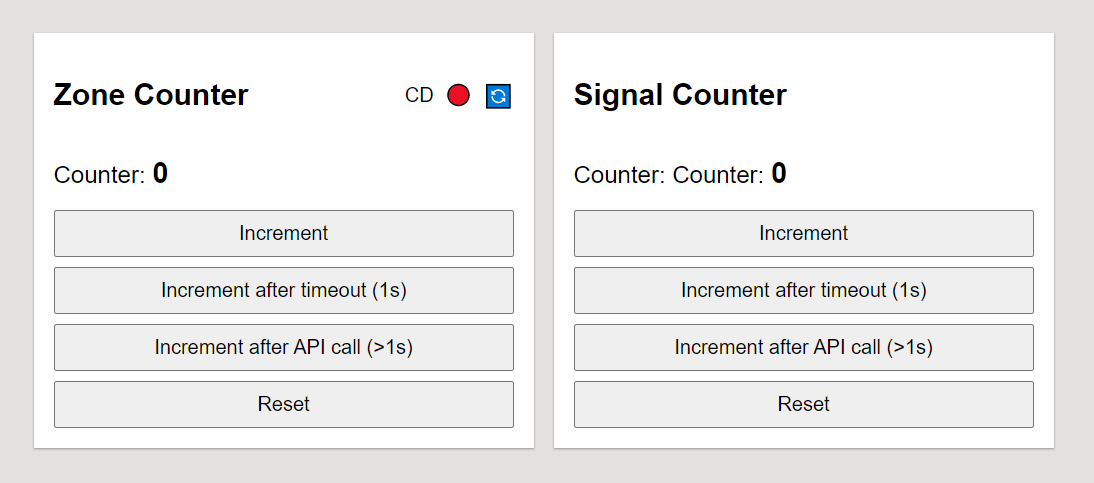
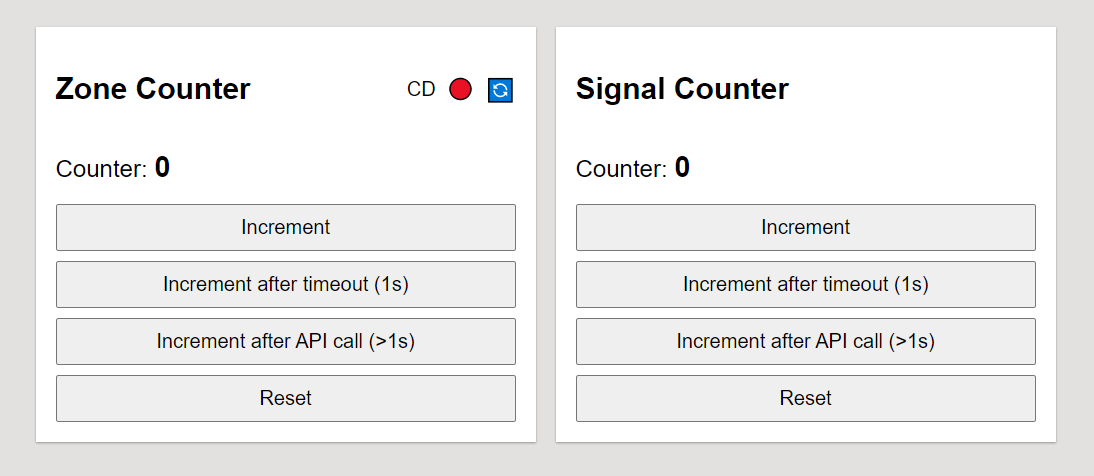
fix ui

diff --git a/src/app/signal-counter/signal-counter.component.html b/src/app/signal-counter/signal-counter.component.html
@@ -1,7 +1,7 @@
 <h2>Signal Counter</h2>
 
 <div class="info">
-  Counter: Counter: <strong>{{ counter() }}</strong>
+  Counter: <strong>{{ counter() }}</strong>
 </div>
 
 <div class="actions">
